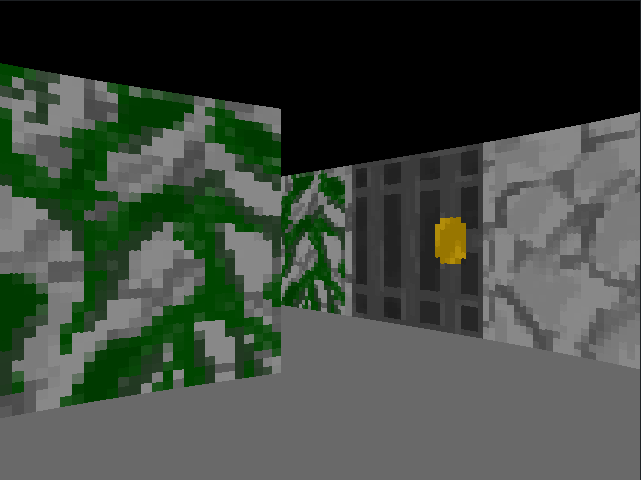
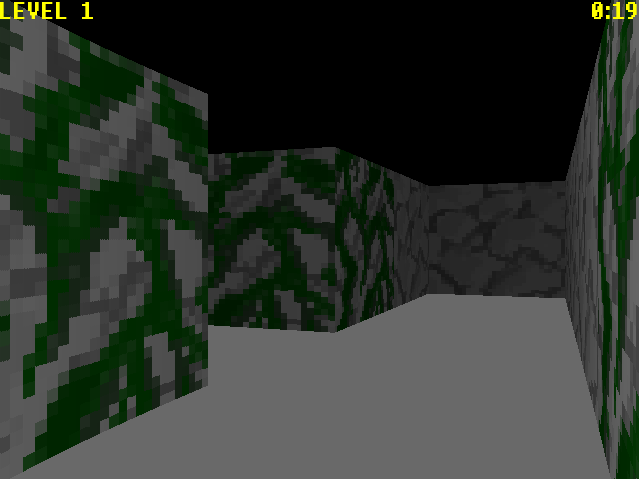
Add collision checking

diff --git a/Player.cs b/Player.cs
@@ -11,6 +11,7 @@ public class Player
 {
     private const float MOVEMENT_SPEED = 2.5f;
     private const float ROTATION_SPEED = 1.5f;
+    private const float RADIUS = 0.3f;
     private const int FOV_DEGREES = 60;
 
     /// <summary>
@@ -33,23 +34,27 @@ public class Player
     /// </summary>
     public float Y {get; private set;}
 
+    public int[,] Maze {get;}
+
     /// <summary>
     /// Creates a new player at the given position and angle
     /// </summary>
     /// <param name="x">Initial X position</param>
     /// <param name="y">Initial Y position</param>
     /// <param name="angle">Initial facing angle in degrees</param>
-    public Player(float x, float y, float angle)
+    public Player(float x, float y, float angle, int[,] maze)
     {
         this.X = x;
         this.Y = y;
         this.Angle = (float)(angle * Math.PI / 180); // Degrees to Radians
 
         this.FOV = (float)(FOV_DEGREES * Math.PI / 180);
+
+        this.Maze = maze;
     }
 
     /// <summary>
-    /// Updates the player's movement and rotation based on keyboard input
+    /// Updates the player's movement and rotation based on keyboard input while checking for collision
     /// </summary>
     /// <param name="gameTime">Elapsed time since last frame</param>
     public void Update(GameTime gameTime)
@@ -72,29 +77,49 @@ public class Player
         // Forward
         if (keyboard.IsKeyDown(Keys.W))
         {
-            X += dirX * moveStep;
-            Y += dirY * moveStep;
+            float candidateX = X + dirX * moveStep;
+            if (!IsBlocked(candidateX, Y))
+                X = candidateX;
+
+            float candidateY = Y + dirY * moveStep;
+            if (!IsBlocked(X, candidateY))
+                Y = candidateY;
         }
 
         // Back
         if (keyboard.IsKeyDown(Keys.S))
         {
-            X -= dirX * moveStep;
-            Y -= dirY * moveStep;
+            float candidateX = X - dirX * moveStep;
+            if (!IsBlocked(candidateX, Y))
+                X = candidateX;
+
+            float candidateY = Y - dirY * moveStep;
+            if (!IsBlocked(X, candidateY))
+                Y = candidateY;
         }
 
         // Strafe Left
         if (keyboard.IsKeyDown(Keys.A))
         {
-            X += dirY * moveStep;
-            Y -= dirX * moveStep;
+            float candidateX = X + dirY * moveStep;
+            if (!IsBlocked(candidateX, Y))
+                X = candidateX;
+
+            float candidateY = Y - dirX * moveStep;
+            if (!IsBlocked(X, candidateY))
+                Y = candidateY;
         }
 
         // Strafe Right
         if (keyboard.IsKeyDown(Keys.D))
         {
-            X -= dirY * moveStep;
-            Y += dirX * moveStep;
+            float candidateX = X - dirY * moveStep;
+            if (!IsBlocked(candidateX, Y))
+                X = candidateX;
+
+            float candidateY = Y + dirX * moveStep;
+            if (!IsBlocked(X, candidateY))
+                Y = candidateY;
         }
     }
 
@@ -102,4 +127,18 @@ public class Player
     /// Player's position as a Vector2
     /// </summary>
     public Vector2 Position => new Vector2(X, Y);
+
+    private bool IsInWall(float x, float y)
+    {
+        if ((int)x < 0 || (int)y < 0 || (int)x >= Maze.GetLength(1) || (int)y >= Maze.GetLength(0)) 
+            return true; // OOB Check
+
+        return Maze[(int)y, (int)x] > 0;
+    }
+
+    private bool IsBlocked(float x, float y)
+    {
+        // Check left, right, top, and bottom edges respectively of player circle
+        return (IsInWall(x - RADIUS, y) || IsInWall(x + RADIUS, y) || IsInWall(x, y - RADIUS) || IsInWall(x, y + RADIUS));
+    }
 }

diff --git a/FirstPersonRenderer.cs b/FirstPersonRenderer.cs
@@ -84,7 +84,7 @@ public class FirstPersonRenderer
     /// </summary>
     /// <param name="rayAngle">The angle of the ray in radians</param>
     /// <returns>
-    /// A tuple containing the distance to the wall, the horizontal texture coordinate, and the appropriate wall texture
+    /// A tuple containing the distance to the wall, the brightness of it, the horizontal texture coordinate, and the appropriate texture
     /// </returns>
     private (float, float, float, Texture2D) CastRayDDA(float rayAngle)
     {
@@ -209,6 +209,7 @@ public class FirstPersonRenderer
     /// <param name="wallHeight">Height of the wall slice</param>
     /// <param name="wallX">Horizontal texture coordinate (0–1)</param>
     /// <param name="texture">Wall texture to draw</param>
+    /// <param name="textureBrightness">Wall texture brightness level</param>
     private void DrawWallSlice(int x, int wallHeight, float wallX, Texture2D texture, float textureBrightness)
     {
         int textureX = (int)(wallX * texture.Width);

diff --git a/MazeGame.cs b/MazeGame.cs
@@ -164,7 +164,7 @@ public class MazeGame : Game
 
         _ml.GenerateMaze(size);
 
-        _player = new Player(1.5f, _ml.PlayerSpawnY, 0);
+        _player = new Player(1.5f, _ml.PlayerSpawnY, 0, _ml.Maze);
 
         _fpr = new FirstPersonRenderer(
             _ml.Maze,

diff --git a/README.md b/README.md
@@ -3,13 +3,9 @@ A DDA-based raycaster built with Monogame where you can explore a randomly gener
 
 ## Screenshots
 ![Demo](Content/screenshots/sc1.png)
+![Demo](Content/screenshots/sc2.png)
 
 ## Controls
 - `W, A, S, D`: Move Around
 - `L & R Arrow Keys`: Rotate Camera
 - `M`: Show map on console once (Try your best not to use it though!)
-
-## Note: This is a work in progress
-Some things left to do:
-- Actual game logic
-- Collision